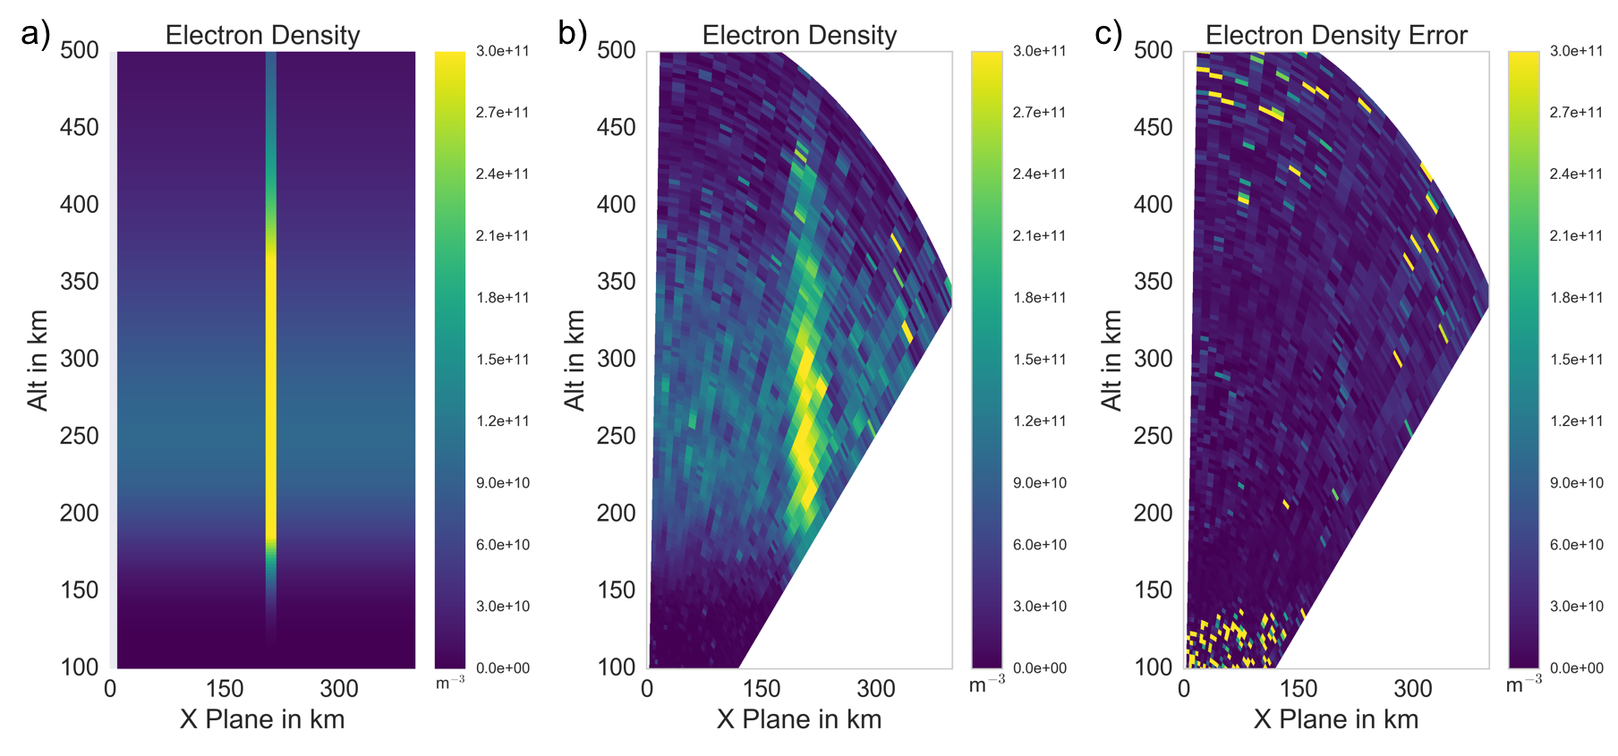
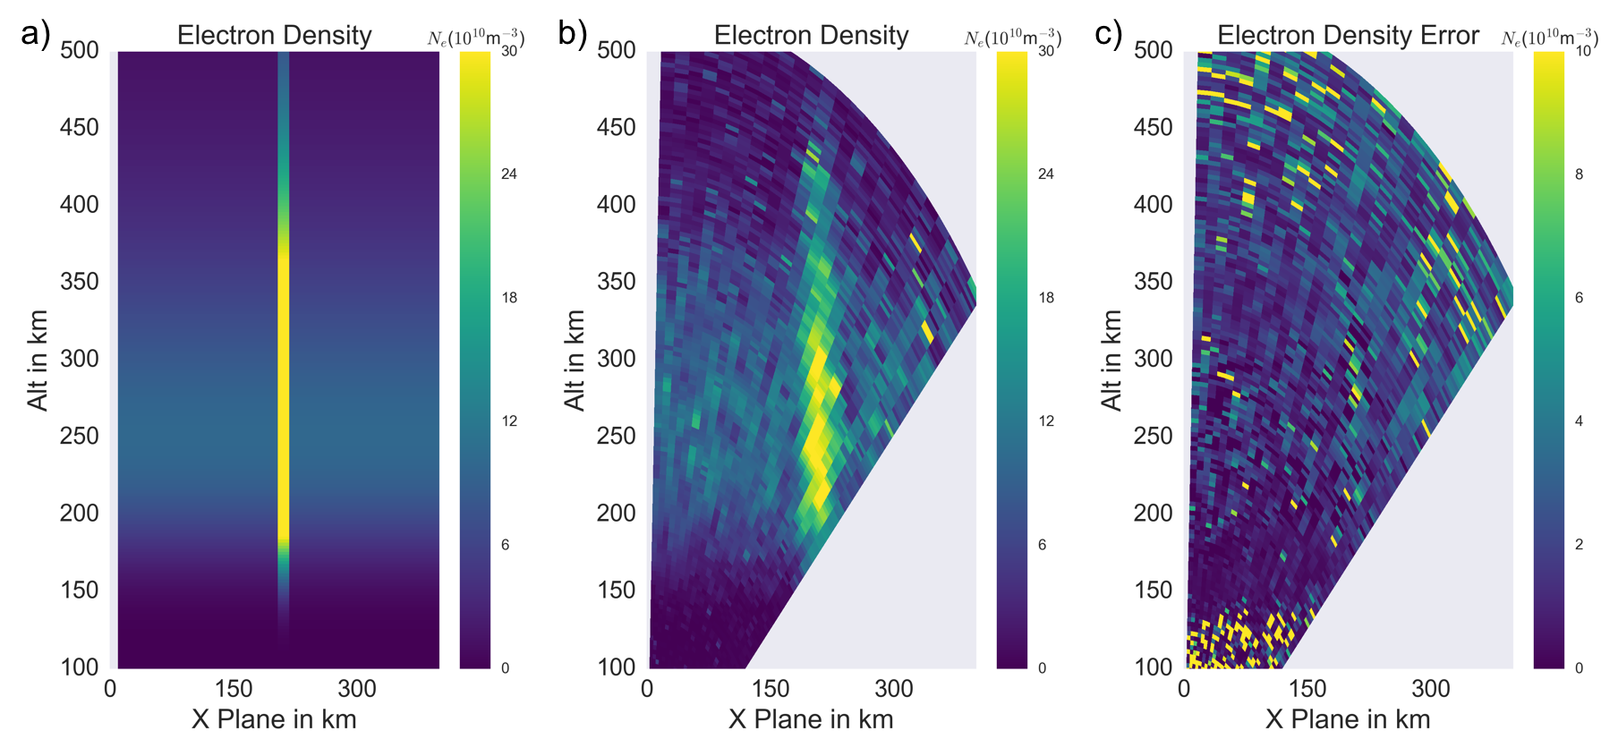
updates to end of simulator section

diff --git a/4_STISRS/stisrs.tex b/4_STISRS/stisrs.tex
@@ -84,14 +84,14 @@ y_m (k)= s(k)\left[h_m(k)*w(k)\right],
 \end{equation}
  
 \noindent where $s(k)$ is the overall transmitted pulse envelope, $h_m(k)$ is the time domain representation of the filter in Equation \ref{eq:filtz} and $w(k)\sim CN(0,\mathbf{I})$ or CWGN noise process. The pulse shape acts as a window function, since the plasma will only reflect energy during the time it is illuminated by the radar signal. 
-%The application of this filter is actually done in the frequency domain. This is possible because the Discrete Fourier Transform (DFT) of a vector of CWGN is also CWGN. The only difference is that there is a change in the variance, which is tied to the number of points used in the DFT \citep{kayvol1}. With this in mind Equation \ref{eq2} can be implemented as the following,
+%The application of this filter is actually done in the frequency domain. This is possible because the Discrete Fourier Transform (DFT) of a vector of CWGN is also CWGN. The only difference is that there is a change in the variance, which is tied to the number of points used in the DFT \cite{kayvol1}. With this in mind Equation \ref{eq2} can be implemented as the following,
 
 %\begin{equation}
 %\label{eq:fftfilt}
 %y_m (k)= s(k)\displaystyle \sum_{i=0}^{K-1}e^{j\omega_ik}\left[ \sqrt{S_m(\omega_i | \: \bm{\theta})}w(\omega_i)\right],
 %\end{equation}
 %
-%\noindent where $\omega_i$ is the frequency variable, $w(\omega_i) \sim CN(0,\mathbf{I})$ and $K$ is the number of points used for the DFT \citep{michellnoisesim1981}.
+%\noindent where $\omega_i$ is the frequency variable, $w(\omega_i) \sim CN(0,\mathbf{I})$ and $K$ is the number of points used for the DFT \cite{michellnoisesim1981}.
 
 \begin{figure}[!h]
 \centering
@@ -129,9 +129,9 @@ A full diagram of the model can be seen in Figure \ref{fig:isrdiag}.
 \section{Simulation Examples}
 \label{sec:simex}
 
-The framework for STISRS allows exploration of a number of aspects of ISR processing. Within the scope of this article, we will focus on three application examples.
+The framework for SimISR allows exploration of a number of aspects of ISR processing. Within the scope of this article, we will focus on four application examples.
 
-The first example demonstrates how the simulator can be used for Monte Carlo estimates of ISR spectra. In this case, we hold all of the plasma parameters constant and determine how the distribution of the measured parameters evolve. The next example uses a simple altitude distribution of ionospheric plasma parameters to show the impact of the forward model of the ISR on a basic measurement of electron density. This is intended to illustrate that basic ambiguities inherent in ISR measurements can give the appearance of a change in morphology of the plasma phenomena when none truly exists. Finally, the output of a fully consistent multi-fluid ionosphere model is used as input to the ISR simulator to show a use case relevant to experiment planning. This case illustrates an inherent tradeoff in experiment construction between reducing statistical fluctuations in the measurement and increasing distortion in the final reconstruction.
+The first example demonstrates how the simulator can be used for Monte Carlo estimates of ISR spectra. In this case, we hold all of the plasma parameters constant and determine how the distribution of the measured parameters evolve. The next example uses a simple altitude distribution of ionospheric plasma parameters to show the impact of the forward model of the ISR on a basic measurement of electron density. This is intended to illustrate that basic ambiguities inherent in ISR measurements can give the appearance of a change in morphology of the plasma phenomena when none truly exists. Finally, the output of a fully consistent multi-fluid ionosphere model is used as input to the ISR simulator and is applied in two use cases relevant to experiment planning, one varying over two spatial dimensions and another varying in all three spatial dimensions. The results of these use cases illustrate an inherent tradeoff in experiment construction between reducing statistical fluctuations in the measurement and increasing distortion in the final reconstruction. 
 
 \subsection{Monte Carlo Example}
 
@@ -143,6 +143,8 @@ It is often necessary to obtain a large number of sensor measurements for a stat
 For this example we show how distributions of plasma parameter measurements change as more pulses are averaged. To do this we created a field of constant plasma parameters typical of the high latitude ionosphere at around 250 km, and performed a Monte Carlo-type simulated statistical experiment using a number of independent realizations. We use the parameters for the Poker Flat AMISR system for this simulation along with the plasma parameter listed in Table \ref{tb:param1}. For a number of independent radar pulse counts, $J$, we used 4,600 realizations of the statistical ISR measurement process in each case to create statistical distributions of measured parameter values. To calculate distributions histograms are created using each of these relations, although some come from the same beam and thus there can be some statistical correlation. The distributions can be seen in Figure \ref{fig:statshistall} which show distributions where 200, 500 and 1000 pulses are used respectively. For a given pulse count $J$, the plasma parameters have a Gaussian-like distribution. As expected the distribution narrows as the number of pulses $J$ is increased. Another observation is that as the number of pulses increases the bias in the measurement is reduced, which could be due to the way that the histograms were calculated.
 %% PJE:  However, Figure 5 clearly shows a biased measurement for the 200 pulse case slowly resolving to zero bias in the 500 and 1000 sample cases.  You need to address this behavior here, as a sharp reviewer is going to notice and call it out.  I don't offhand know why that is happening.
 %% JPS: Didn't have a great answer, I have a feeling that it might be related to how I calculated the histograms. I took data from all of the beams together so there correlations between some samples. The  
+%% PJE: I guess then you need to leave it alone, but I would be prepared for questions.
+%% JLS:  So it doesn’t actually resolve to 0, at least in the density histogram.  For large number of pulses there seems to be a second bump at 0.7e11.   Would it be worth looking at some ACF fits for those cases to try and see if there is some obvious explanation?  Are you adding receiver/sky noise for these runs?   Could incorrect noise subtraction, or maybe some coloring in the noise generation, be a cause?  I’m confident that a reviewer will raise this issue, so best to just get our response together now!
 \begin{table}[!t]
 \centering
 \caption{Simulation parameters.}
@@ -166,7 +168,7 @@ $V_i$      & $0$ m/s
 ISR error analysis also benefits from SimISR's ability to generate a large number of samples of fitted parameters. In particiular, ISR measurements need to have estimates of the errors, and accuracy of the estimates of these errors can be explored using SimISR. Using the 1000 pulse case seen in Figure \ref{fig:statshistall}, we can compare simulated output distributions with the actual distribution of parameter values. Figure \ref{fig:statshistsingle} shows a comparison of these two different models using. The first method, represented by the blue line, uses the sample mean and variance calculated from each as the variance and mean for a Normal distribution. The other method, which generated the green line, calculates an average squared error from the true value for each parameter for the variance in a Normal distribution and uses the true value for the mean. 
 %% PJE: I'm confused by the logic of this sentence above (also "shows gives" etc?) - please reword.
 %% JPS: Just changed 
-This example shows that the parameter distributions are well represented by a Gaussian function but that the error estimated from the fit may not give a completely accurate representation of variance of these parameters.  
+This example shows that the parameter distributions are well represented by a Gaussian function but that the error estimated from the fit may not give a completely accurate representation of variance of these parameters. 
 
 \begin{figure}[!t]
 \centering
@@ -176,7 +178,7 @@ This example shows that the parameter distributions are well represented by a Ga
 \end{figure}
 
 
-The SimISR tool is useful for identifying situations where assumptions in the parameter fitting break down. For example, a number of studies have explored the case where ISR parameter measurements and spectra show evidence of non-Maxwellian plasma behavior \cite{Akbari:2012dz,Akbari:2015fv}. Future studies using the simulator could help create a training set that can be used with a pattern recognition algorithm to identify cases where normal fitting procedures may be incorrect due to violation of Maxwellian assumptions.
+The SimISR tool is useful for identifying situations where assumptions in the parameter fitting break down. For example, a number of studies have explored the case where ISR parameter measurements and spectra show evidence of non-Maxwellian plasma behavior (for AMISR examples see)\cite{Akbari:2012dz,Akbari:2015fv}. Future studies using the simulator could help create a training set that can be used with a pattern recognition algorithm to identify cases where normal fitting procedures may be incorrect due to violation of Maxwellian assumptions.
 
 \subsection{Electron Density Measurement}
 An important aspect of experiment design is determining the observability of plasma phenomena with ISR. The simulator can be used to help understand the trade space accompanying a given experimental configuration. With this in mind, we use a simple two dimensional spatial field of ionospheric parameters as an illustrative case study. An all-O$^+$ ionosphere is created with a background electron density that follows a Chapman function with $1\times10^{11}$ m$^{-3}$ as the peak value and a constant electron and ion temperatures of 2000 K and 1500 K respectively. The background ionosphere is depicted in Figure \ref{fig:background1}.
@@ -187,6 +189,7 @@ An important aspect of experiment design is determining the observability of pla
 \caption{Contour of background $N_e$ for simulations and the spatial sampling pattern}
 % JOHN:  you don't need both of these panels, just the one on the right along with the colorbar.   Also, you should reduce the number of labels on colorbar, increase the font, and absorb exponent into units (which are not given).  Also there is no indication of what scalar is being plotted.   Typically you would write parameter/units above the colorbar:   $N_e (10^{10}$m$^{-3})$.   This comment goes for other plots too.
 % Josh: I've updated the figures as you suggested.
+% MZ - why run the colorbar out to 30 instead of the max density (~1.5e11) for this field?  Maybe because you want to keep the same colorbar for all density plots?
 \label{fig:background1}
 \end{figure}
 
@@ -197,7 +200,7 @@ We first explore how a thin stationary density enhancement is resolved with the 
 are seen in Figure \ref{fig:stationaryall}b and c using 15 and 60 second integration times, corresponding to 60 and 240 pulses per position, respectively. The different integration times show that, although the enhancement is blurred, the variance of the measurement impacts the quality of the reconstruction because of the inherent noise-like nature of of the signal. The expected errors for both of the reconstructions are shown in Figure \ref{fig:errorstationaryall}. As expected, the estimated errors show that uncertainties are larger for the case with fewer pulses (i.e. smaller ensemble average size). 
 %JOHN:  I've tried to fix figure referencing in the above since it didn't mesh with what you had.   Also, how are you deriving density, is it just range corrected power here, or full spectrum fitting?  
 %Josh: Fitted density, I mention it in the previous paragraph
-Because we know the input parameters, we can do a quick comparison using the root mean squared error (RMSE) for each case. By comparing the RMSE between the 15 and 60 second integration cases, we find that the ratio between the two cases is approximately 5.4 in the simulation output.  However, the expected RMSE ratio between the two should be approximately 2 since the variance of the ACFs scales as $1/\sqrt{J}$, where $J$ is the number of pulses. If we instead use a median instead of a mean operator in the error calculation, this ratio becomes 1.55, more in line with the expected statistical error scaling, largely due the large outliers being disregarded. In order to determine if the expected errors are correct a larger study comparing the actual and expected errors may be necessary, but we see using a median estimator, which can get ride of large outliers, the ratios between the errors and expected errors are relatively close.
+Because we know the input parameters, we can do a quick comparison using the root mean squared error (RMSE) for each case. By comparing the RMSE between the 15 and 60 second integration cases, we find that the ratio between the two cases is approximately 5.4 in the simulation output.  However, the expected RMSE ratio between the two should be approximately 2 since the variance of the ACFs scales as $1/\sqrt{J}$, where $J$ is the number of pulses. If we instead use a median instead of a mean operator in the error calculation, this ratio becomes 1.55, more in line with the expected statistical error scaling, largely due to the large outliers being disregarded.  Further investigation of the quantitative error discrepancy is a larger effort and beyond the scope of this study.  However, in general, the ratios between the errors and expected errors are relatively close when employing a median estimator that inherently rejects large outliers.
 %% PJE: You've left me hanging here though - what does this result mean?  It deserves at least one sentence worth of comment.
 %% JPS: Commented further, the behavior of the expected errors and actual errors are relatively close
 \begin{figure}[!t]
@@ -220,9 +223,11 @@ The blurring effect seen in this case study is not constant throughout the simul
 As the enhancement becomes parallel to the radar beams, close to 0 km in the X plane,
 %% PJE: where does it become parallel?  I cannot see the effect you are talking about here without some circles or arrows or something on the plot.
 %% JPS: Done
-its morphology in the reconstruction becomes smaller along the x-axis, as the range ambiguity is much larger than the cross range ambiguity. (To see the input and output electron density change with time, the reader is referred to Movies S1 and S2.) In both cases the expected errors, shown in panel c in both Figures \ref{fig:moving10mins} and \ref{fig:moving14mins}, give us confidence in these results as they are much lower value than the enhancements and background.
+%% JLS:  Actually the effect is more nuanced than just becoming thinner.   The density column is bifurcated below 200 km (two columns with gap in between).   DO you know why this is?  Is it a consequence of the shape of the ambiguity function, such that the target "fades" as it moves across beams?
+its morphology in the reconstruction becomes smaller along the X-axis, as the range ambiguity is much larger than the cross range ambiguity. In both cases the expected errors, shown in panel c in both Figures \ref{fig:moving10mins} and \ref{fig:moving14mins}, give us confidence in these results as they are much lower value than the enhancements and background.
 %% PJE: the electron density error plots here have the wrong scaling - everything is very dark color and I can't see any structure in any of them.  Please rescale the color bars.
-%% JPS: added statement about errors\begin{figure}[!t]
+%% JPS: added statement about errors
+%% JLS: Hard to read the scales, but looks like you are using the same range for data and error.  The saturated error pixels don't matter, so why not compress the range so reader can visualize error in vicinity of the features we are trying to reconstruct?
 \begin{figure}[!t]
 \centering
 \includegraphics[width=6in]{moving6mins}
@@ -245,7 +250,8 @@ Lastly, for this type of simulation, we show an example to demonstrate the situa
 The input electron density, the fitted electron density and the expected error for the 10 km enhancement can be seen in Figure \ref{fig:moving10all}. The same images for the 18 km wide case can be seen in Figure \ref{fig:moving18all}. Both cases show that electron density enhancements are well above the expected errors.
 %% PJE: once again, I cannot see the error morphology here - it just looks like a bunch of pixels at the lowest color level.  Rescale.
 %% JPS: I think showing the errors in the same color scale gives the reader an easier time of determining if the results should be trusted. 
-The fitted electron density for both the 10 km enhancement and 18 km enhancement cases show nearly identical results. This simple example demonstrates the possibility to create a non-unique solution in ISR experiments. The results further demonstrate that SimISR can provide useful information in this case, in that it can provide information during the design phase of an experiment that highlight possibilities for ambiguous observational results between two different sets of phenomena. (For the full input electron density changing with time for the 10 km example, see Movie S3 and for the fitted data S4. The 18 km case can be seen in Movies S5 and S6 for input and fitted parameters respectively.)
+%% JLS:  Fine, but all the reader can say from these plots is that the error seems to be below ~12, or ~30%.   DIfficult to discern any color differences below that.
+The fitted electron density for both the 10 km enhancement and 18 km enhancement cases show nearly identical results. This simple example demonstrates the possibility to create a non-unique solution in ISR experiments. The results further demonstrate that SimISR can provide useful information in this case, in that it can provide information during the design phase of an experiment that highlight possibilities for ambiguous observational results between two different sets of phenomena. 
 
 \begin{figure}[!t]
 \centering
@@ -263,8 +269,9 @@ The fitted electron density for both the 10 km enhancement and 18 km enhancement
 
 \subsection{Full Parameter Experiment}
 \label{sec:fullparam}
-Another SimISR use case employs input plasma parameters derived from the multi-fluid model developed by \cite{semeter:plasmatransport2012}. The specific model run was originally used by \cite{Perry:2015jf} to assist in interpreting measurements of polar cap arcs from the Resolute Bay Incoherent Scatter Radar (RISR). Images of the modeled plasma parameters are shown in Figures \ref{fig:plparamst0} and \ref{fig:plparamst60}. The enhancements in electron density, electron temperature, and ion temperature comprise the self-consistent response of the ionosphere to a field-aligned current system with amplitude .875 $\mu$A/m$^2$.  The source is made to move with respect to the radar at a velocity of 200 m/s (a representative value for ionospheric convection).  A channel of soft electron precipitation is added to the upward current channel, with energy flux consistent with measured optical intensities.  A reasonable objective for a multi-beam ISR experiment could be to validate such a model prediction.  SimISR can be used to assess the observability of dynamic plasma enhancements and establish confidence intervals on the results.  
+Another SimISR use case employs input plasma parameters derived from the multi-fluid model developed by \cite{semeter:plasmatransport2012}. The specific model run was originally used by \cite{Perry:2015jf} to assist in interpreting measurements of polar cap arcs from the Resolute Bay Incoherent Scatter Radar (RISR). Images of the modeled plasma parameters are shown in Figures \ref{fig:plparamst0} and \ref{fig:plparamst60}. The enhancements in electron density, electron temperature, and ion temperature comprise the self-consistent response of the ionosphere to a field-aligned current system with amplitude .875 $\mu$A/m$^2$.  The source is made to move with respect to the radar at a velocity of 200 m/s (a  value inferred from optical forms observed during this event).  A channel of soft electron precipitation (50-500 eV in energy) is added to the upward current channel, with energy flux consistent with the amount of electron heating seen during the event.  A reasonable objective for a multi-beam ISR experiment could be to validate model predictions of conditions leading to the arc-adjacent density depletion seen in panel a of Figure \ref{fig:plparamst60}.  In this specific case SimISR can be used to assess observability of dynamic plasma structuring and establish confidence intervals on the ISR results.  
 
+%MZ - something looks strange in this figure with Ti - is the a species-averaged or composition-corrected value?  Also I would strongly recommend removing N2+ from this figure, since it doesn't matter at all in this event (viz. it is at least 1000 x lower density than dominant species at all alts.).
 \begin{figure}[!t]
 \centering
 \includegraphics[width=6in]{backgroundallparams}
@@ -272,26 +279,29 @@ Another SimISR use case employs input plasma parameters derived from the multi-f
 \label{fig:plparamst0}
 \end{figure}
 
+%MZ - K or deg. K?  Back in the day they taught us to just use "K", but maybe that has changed...
 \begin{figure}[!t]
 \centering
 \includegraphics[width=6in]{0960_15_int}
-\caption{Perturbations to Figure \ref{fig:plparamst0} due to an imposed current system of .875 $\mu$A/m$^2$ at $t=960$ s, representing an auroral arc situation.}
+\caption{Perturbations to Figure \ref{fig:plparamst0} due to an imposed current system of .875 $\mu$A/m$^2$ at $t=960$ s, representing an polar cap auroral arc which is sweeping across the field-of-view of the radar at about 200 m/s \cite[c.f.][]{Perry:2015jf}.}
 \label{fig:plparamst60}
 \end{figure}
 
-Using a beam pattern similar to the one seen in the right panel of Figure \ref{fig:background1}, we use SimISR to explore how an electronically scanned ISR may reconstruct this dynamic auroral arc system.  For the purposes of illustration, we use the contrived case where the radar spatial beam pattern is defined to be in the plane of convection.  It is also assumed that the ion species present (particularly their individual masses and relative concentrations) are known. This is a common use case in ISR fitting, as allowing ion concentrations to be free parameters can in some situations allow for non-unique solutions depending on the ion species that are present. If the fixed, apriori assumed composition ratios between the different ion species are incorrect, this can lead to errors in the final parameter estimates, with ion temperature particularly affected. For the lower F region ionosphere, parameter distortions can occur between 150-250 km where the ionosphere changes from NO$^+$ dominated to O$^+$ dominated \cite{Zettergren:2011ej, Blelly:2010gf}. We also note that as the field aligned current passes through the simulated field, an influx of NO$^+$ appears in the region of rapid ion mass transition for this simulation, potentially violating ion composition assumptions \cite{Perry:2015jf}.
+Using a beam pattern similar to the one seen in the right panel of Figure \ref{fig:background1}, we use SimISR to explore how an electronically scanned ISR may reconstruct this dynamic auroral arc system.  For the purposes of illustration, we use the contrived case where the radar spatial beam pattern is defined to be in the plane of convection.  It is also assumed that the ion species present (particularly their individual masses and relative concentrations) are known. This is a common use case in ISR fitting, as allowing ion concentrations to be free parameters can in some situations allow for non-unique solutions depending on the ion species that are present.  If the fixed, a priori composition ratios between the different ion species are incorrect, this can lead to errors in the final parameter estimates, with ion temperature particularly affected. For the lower F region ionosphere, parameter distortions can occur between 150-250 km where the ionosphere changes from NO$^+$ dominated to O$^+$ dominated \cite{Zettergren:2011ej,Blelly:2010gf}. We also note that as the field aligned current passes through the simulated field, an influx of NO$^+$ appears in the region of rapid ion mass transition for this simulation, potentially violating ion composition assumptions \cite{Perry:2015jf}.
 % JOHN:  I can't figure out what the above sentence fragment is supposed to be.
 % Josh: I fixed the first sentence of the previous paragraph
+% MZ - I'm intrigued by the last sentence.  We do need to explain this a bit better (and I would like to go through the model output from which this is derived to make sure I understand why the model it giving this result)
 
-The output of SimISR in the auroral arc case can be seen in Figure \ref{fig:fplparamst60} and in Movie S8. The integration is started at $t=960$ s into the multi-fluid simulation with the plasma parameters shown in Figure \ref{fig:plparamst60}. The full set of plasma parameters over time can be seen in Movie S7. For this case, a 60 second integration time is used, which for the 27 beam radar experiment set up gives 255 pulses per position. These plasma parameters are linearly interpolated to a Cartesian grid and plotted using the GeoData API \cite{john_swoboda_2016_154533}. Lastly, the expected errors from the fit can be seen in Figure \ref{fig:fplparamst60err}, which are of much lower value that the fitted parameters.
+The output of SimISR in the auroral arc case can be seen in Figure \ref{fig:fplparamst60}. The integration is started at $t=960$ s into the multi-fluid simulation with the plasma parameters shown in Figure \ref{fig:plparamst60}. For this case, a 60 second integration time is used, which for the 27 beam radar experiment set up gives 255 pulses per position. These plasma parameters are linearly interpolated to a Cartesian grid and plotted using the GeoData API \cite{john_swoboda_2016_154533}. Lastly, the expected errors from the fit can be seen in Figure \ref{fig:fplparamst60err}, which are of much lower value that the fitted parameters.
 %% PJE: same complaint about expected errors - I can't see anything with the color scale chosen.  Rescale.
 %% JPS: See other comments.
 We highlight several features in the fitted results. First, the predicted enhancements in electron and ion temperature are clearly observable and well above the expected error. Second, we examine whether the predicted density cavity in the downward field-aligned current region is  detectable. A deepening and broadening region of plasma evacuation is predicted as a self-consistent response to a confined up-down current pair \cite{cran;cavity}.  But it has been unclear whether this prediction can be validated with ISR, since it involves detecting organized channels of reduced backscatter power embedded within a higher density background.
 %% PJE: I really don't like the word "coherent" here since it will lead the reader to think of scattering off coherent plasma waves.  I think you should use maybe "organized channels".
 %% JPS: Done
-%Josh: You didn't have the right citation so I found the best one i could Replaced \citep{write:alfven} with current version
+%Josh: You didn't have the right citation so I found the best one i could Replaced \cite{write:alfven} with current version
 % JOHN:  The Cran-McGreehan paper cited above is the right one, just check that it compiles.
 % Josh: It seems to work on my end.
+% MZ - I'd be careful attributing the cavities to the Cran/Doe Mechanism.  I think case I think it is a chemical effect (which is, I believe, what Perry et al, 2015 conclude).  However, in general, you would likely not be able to separate the two process with ISR measurements.  
 The images shown in Figure \ref{fig:fplparamst60} represent the best case scenario for identifying the presence of this cavity since, at this time, the cavity is nearly co-aligned with one of the beams. 
 %For the other cases where the beams are not well aligned with the cavity it becomes much more difficult to observe it due to the range ambiguity being larger than the beam width, making the "filling in" of the evacuated electrons more pronounced. 
 Using density measurements alone (panel a) the presence of the cavity is visible, but only marginally so, as it is blended with the adjacent  enhancement produced by the applied precipitation in the upward current channel.  A similar ambiguity exists with the electron temperature result, which could easily be interpreted as purely an effect of heating from soft precipitation.   However, the ion temperature increase in panel b is decidedly narrower than the electron temperature enhancement, offering a possible observable fingerprint for the presence of a confined up-down current pair.  The simulation result illustrates the efficacy of a collective analysis of all plasma state parameters in evaluating the physical mechanism responsible for an observed dynamic.  This is a common approach in data assimilation problems.
@@ -316,15 +326,20 @@ Using density measurements alone (panel a) the presence of the cavity is visible
 
 \subsection{Full 3-D Reconstruction}
 
-In a final use case, SimISR is driven again using plasma parameters derived from the multi-fluid model developed by \cite{semeter:plasmatransport2012}. This case though will use plasma parameters along all three spatial dimensions. The resulting parameter distributions are due to a 0.65 $\mu$A/m$^2$ field aligned current (FAC) that is turned on at multi-fluid model time $t=0$ and remains stationary in time. The Region 1-like FAC creates large enhancements in ion temperature due to frictional heating, and also causes smaller amplitude enhancements (and depletions, as before) in electron density.
+%JLS:  Rewrote this section
+A common application of ESA-based ISR's (PFISR and RISR) is to create three-dimensional time-dependent visualizations of  dynamically evolving parameter fields \cite{Nicolls:2007ie,Semeter2009738,semeter:jgr2010,dahlgren2012di}.   Such results are visually compelling but, as yet, there has been no framework advanced to evaluate uncertainties and potential artifacts in these interpolated views, or to apply these results in a quantitative comparisons with predictions from physical models.  The state of modeling of the coupled magnetosphere-ionosphere system has progressed considerably in recent years. In particular, hybrid fluid-kinetic models are able to make detailed  predictions of small- and meso-scale processes underlying global-scale system behavior \cite{damiano;jgr2005,semeter:plasmatransport2012,akbari:jgr2016}.  Simulation will enable us to do formal hypothesis testing on these predictions, which often involves the detection of subtle space-time variations in a parameter field.
 
-The spatial domain is sampled using the beam pattern and sampling lattice seen in Figure \ref{fig:3dsampling}. This is a 121 beam pattern similar to the one used in \cite{Semeter:2008hs}. For this simulation the data is integrated over 315 seconds, which with a 8.7 ms IPP and the current beam position yields 300 pulses per position.
+As an example, SimISR was driven using plasma parameters computed from a three-dimensional version of multi-fluid model \cite{zettergren2015dynamics} used to test simISR in the previous section. The parameter distributions represent the self-consistent ionospheric response to a 0.65-$\mu$A/m$^2$ field-aligned current (FAC) that is turned on at model time $t=0$, and remains constant in time.  The Region 1-like FAC creates large enhancements in ion temperature due to frictional heating, and also causes smaller amplitude enhancements (and depletions, as before) in electron density.
+%MZ - Just checking this isn't the Perry event anymore, right?  I ask because I think I've sent 3D results from that one as well at some point, but I know I've sent you other stuff, as well.
+
+The spatial domain is sampled using the beam pattern and sampling lattice shown in Figure \ref{fig:3dsampling}. This is a 121 beam pattern similar to the one used by \cite{Semeter:2008hs}. For this simulation the data are integrated over 315 seconds which, with a 8.7 ms IPP and the current beam position, yields 300 pulses per position.
 %% PJE: fill in the XXX
 %% JPS: Filled in
-After the data was fitted it was interpolated using natural neighbors
+After the data were fitted, a three-dimensional natural neighbor interpolation was performed \cite{Sukumar:nn2001} and the results
 %% PJE: natural neighbors? Do you mean nearest neighbors?
 %% JPS: Natural neighbors is another interpolation scheme and we've used it in the past for interpolating 3-D reconstructions.
-and plotted using the GeoData API \cite{john_swoboda_2016_154536}.
+%% JLS: Added natural neighbor citation
+plotted using the GeoData API \cite{john_swoboda_2016_154536}.
 
 \begin{figure}[!t]
 \centering
@@ -333,20 +348,7 @@ and plotted using the GeoData API \cite{john_swoboda_2016_154536}.
 \label{fig:3dsampling}
 \end{figure}
 
-The input plasma parameters and the results of SimISR simulation can be seen in Figure \ref{fig:3dparams}. The enhancements in ion temperature can clearly be seen in the reconstruction, although they do look wider than the input which is likely due to the spatial ambiguity funciton. 
-%% PJE: vague - reword or omit.  If you say e.g. "appear wider" someone is going to ask "why?"
-%% JPS: Added statement about ambiguity.
-The electron temperature enhancement is also visible but less pronounced compared to the input spatial variations. There does seem to be some large electron temperature enhancements near 200 km altitude, although this could be due to improper fits brought on by changes in ion composition at low altitudes. Lastly the depletions in electron density are visible as well in the same pattern as seen on the input parameters. In the end this qualitatively that SimISR can reconstruct a 3-D field of plasma state parameters.
-%% PJE: all of this leave the impression of "we did this, we saw that" qualitative statements without any real insight that results.  I would think carefully about the real message you want to get across in this use case (and simplify + reword accordingly), because I have a hard time as a reader figuring it out.
-%% JPS: I wanted to add this example to show the reader of the ability to reconstruction a 3-D field of plasma parameters.
-\begin{figure}[!t]
-\centering
-\includegraphics[width=6in]{60_60}
-\caption{Input and output of full 3-D reconstruction of plasma parameters.}
-\label{fig:3dparams}
-\end{figure}
-
-The sampling pattern picked for this simulation was chosen to get as dense a set of beams possible so as to mirror past experiments. 
+The sampling pattern picked for this simulation was chosen to get as dense a set of non-overlapping beams as possible.  This has been the general objective for several previous volumetric imaging experiments.
 %% PJE: is this the main point? Or not?
 %% JPS: This mode was designed off of a previous experiment although it is a very dense pattern.
 The overall phenomena varies over a much larger area, so there is an obvious trade off between sampling density and the support region. These sorts of simulations can help experiment planners to understand these trade offs and possibly yield to innovative sampling stratagems for specific phenomena. 

diff --git a/6_Conclusion/conclusion.tex b/6_Conclusion/conclusion.tex
@@ -11,6 +11,7 @@ This chapter contains conclusions, discussions and a summery of this dissertatio
 This thesis showed the outlined some of the basic theory behind ISR. It then followed with the modeling of the space-time ambiguity function which gives a forward model for ISR systems with electronically scanned arrays. A methodology to simulate complex voltage data for ISR was shown and is available as a software package called SimISR. Lastly using the space-time ambiguity a method to invert ISR data within the frame of reference of moving plasma and improve the resolution of the data has been developed. The inversion method was tested using SimISR in from a set of two-dimensional ionosphere plasma state parameters.
 
 \section{Space-Time Ambiguity Function}
+The space-time ambuigty function 
 Section \ref{sec:sptimesamp} Section \ref{sec:sptimeamb} Section \ref{sec:frametrans} 
 \section{SimISR}
 Section \ref{sec:simex} Section \ref{sec:simmeth} Section \ref{sec:simex}
